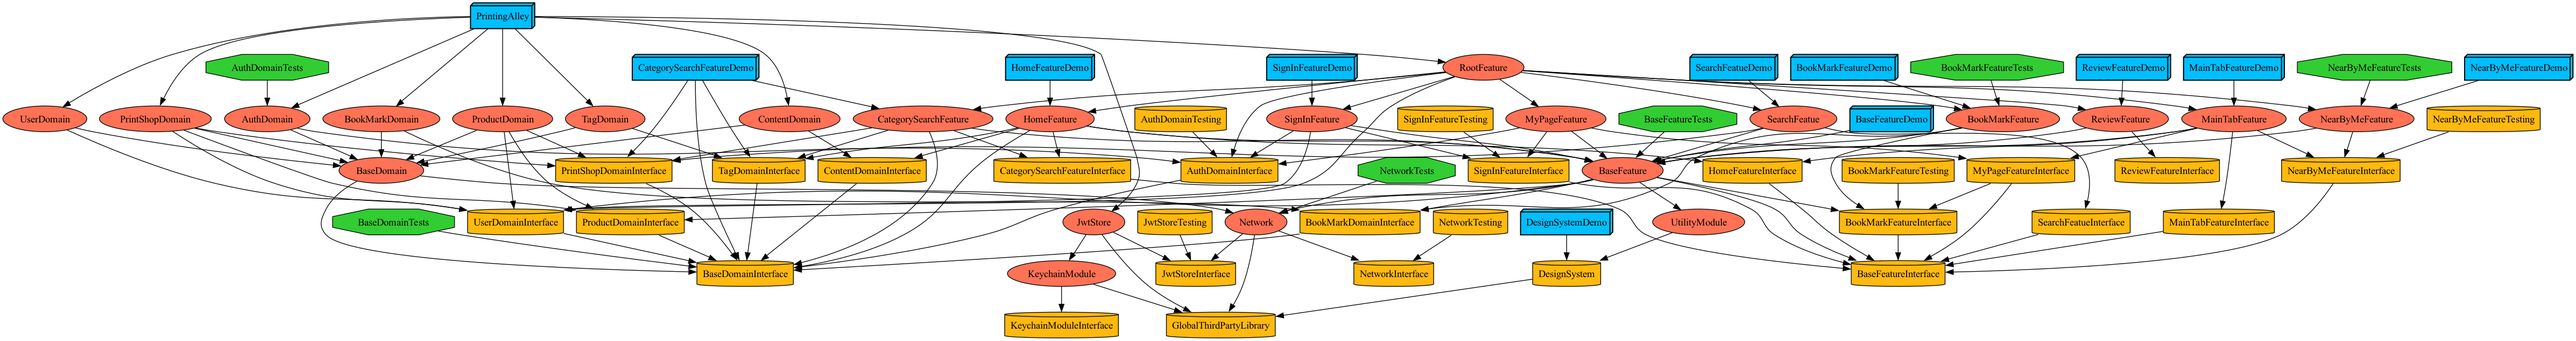
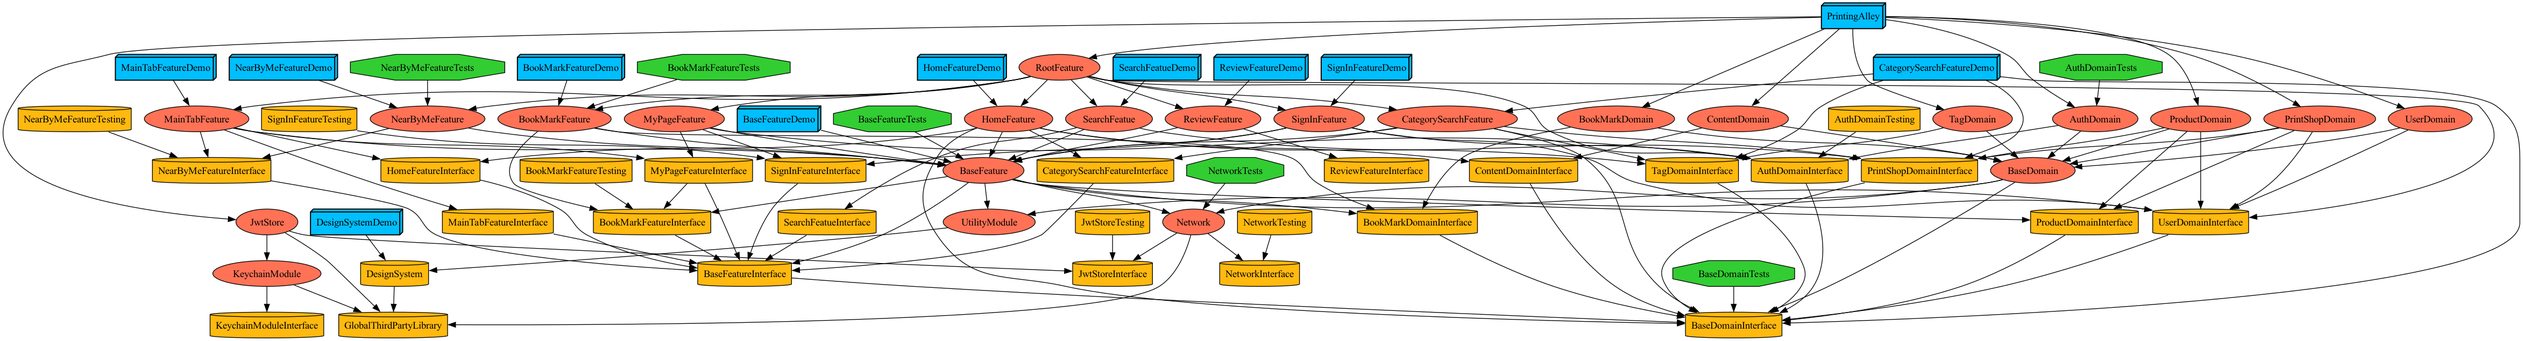
:zap: :: 인코딩 URL 함수 옮김

diff --git a/Projects/Domain/BaseDomain/Project.swift b/Projects/Domain/BaseDomain/Project.swift
@@ -7,7 +7,8 @@ let project = Project.module(
     targets: [
         .implements(module: .domain(.BaseDomain), dependencies: [
             .core(target: .Network),
-            .domain(target: .BaseDomain,type: .interface)
+            .domain(target: .BaseDomain,type: .interface),
+            .shared(target: .UtilityModule)
         ]),
         .interface(module: .domain(.BaseDomain)),
         .tests(module: .domain(.BaseDomain), dependencies: [

diff --git a/Projects/Domain/BaseDomain/Interface/Extension+StringForURL.swift b/Projects/Domain/BaseDomain/Interface/Extension+StringForURL.swift
@@ -1,0 +1,18 @@
+//
+//  EncodingURL.swift
+//  BaseDomainInterface
+//
+//  Created by yongbeomkwak on 11/20/23.
+//  Copyright © 2023 com. All rights reserved.
+//
+
+import Foundation
+
+extension String {
+    func encodeUrl() -> String?
+    {
+        return self.addingPercentEncoding( withAllowedCharacters: .urlQueryAllowed)
+    }
+}
+
+

diff --git a/Projects/Shared/UtilityModule/Sources/Extensions/Extension+String.swift b/Projects/Shared/UtilityModule/Sources/Extensions/Extension+String.swift
@@ -17,6 +17,7 @@ public extension String {
     {
         return self.addingPercentEncoding( withAllowedCharacters: .urlQueryAllowed)
     }
+    
     func decodeUrl() -> String?
     {
         return self.removingPercentEncoding

diff --git a/Projects/Domain/BaseDomain/Interface/PrintShopDetailEntity.swift b/Projects/Domain/BaseDomain/Interface/PrintShopDetailEntity.swift
@@ -7,7 +7,6 @@
 //
 
 import Foundation
-import UtilityModule
 
 // MARK: - PrintShop
 public struct PrintShopDetailEntity {

diff --git a/Projects/Domain/BaseDomain/Interface/ChildrenTagEntity.swift b/Projects/Domain/BaseDomain/Interface/ChildrenTagEntity.swift
@@ -7,7 +7,6 @@
 //
 
 import Foundation
-import UtilityModule
 
 public struct ChildrenTagEntity {
     public let id: Int

diff --git a/Projects/Domain/BaseDomain/Interface/UserInfoEntity.swift b/Projects/Domain/BaseDomain/Interface/UserInfoEntity.swift
@@ -1,7 +1,7 @@
 
 
 import Foundation
-import UtilityModule
+
 
 public struct UserInfoEntity {
     public let id: Int

diff --git a/Projects/Domain/BaseDomain/Interface/CategoryEntity.swift b/Projects/Domain/BaseDomain/Interface/CategoryEntity.swift
@@ -8,7 +8,6 @@
 
 
 import Foundation
-import UtilityModule
 
 public struct CategoryEntity {
     let id: Int

diff --git a/Projects/Domain/BaseDomain/Interface/ReviewEntity.swift b/Projects/Domain/BaseDomain/Interface/ReviewEntity.swift
@@ -7,7 +7,6 @@
 //
 
 import Foundation
-import UtilityModule
 
 public struct ReviewEntity {
     let id: Int

diff --git a/Projects/Domain/BaseDomain/Interface/ProductEntity.swift b/Projects/Domain/BaseDomain/Interface/ProductEntity.swift
@@ -7,7 +7,7 @@
 //
 
 import Foundation
-import UtilityModule
+
 
 public struct ProductEntity {
     

diff --git a/Projects/Domain/BaseDomain/Interface/PrintShopEntity.swift b/Projects/Domain/BaseDomain/Interface/PrintShopEntity.swift
@@ -7,7 +7,7 @@
 //
 
 import Foundation
-import UtilityModule
+
 
 
 // MARK: - PrintShop
